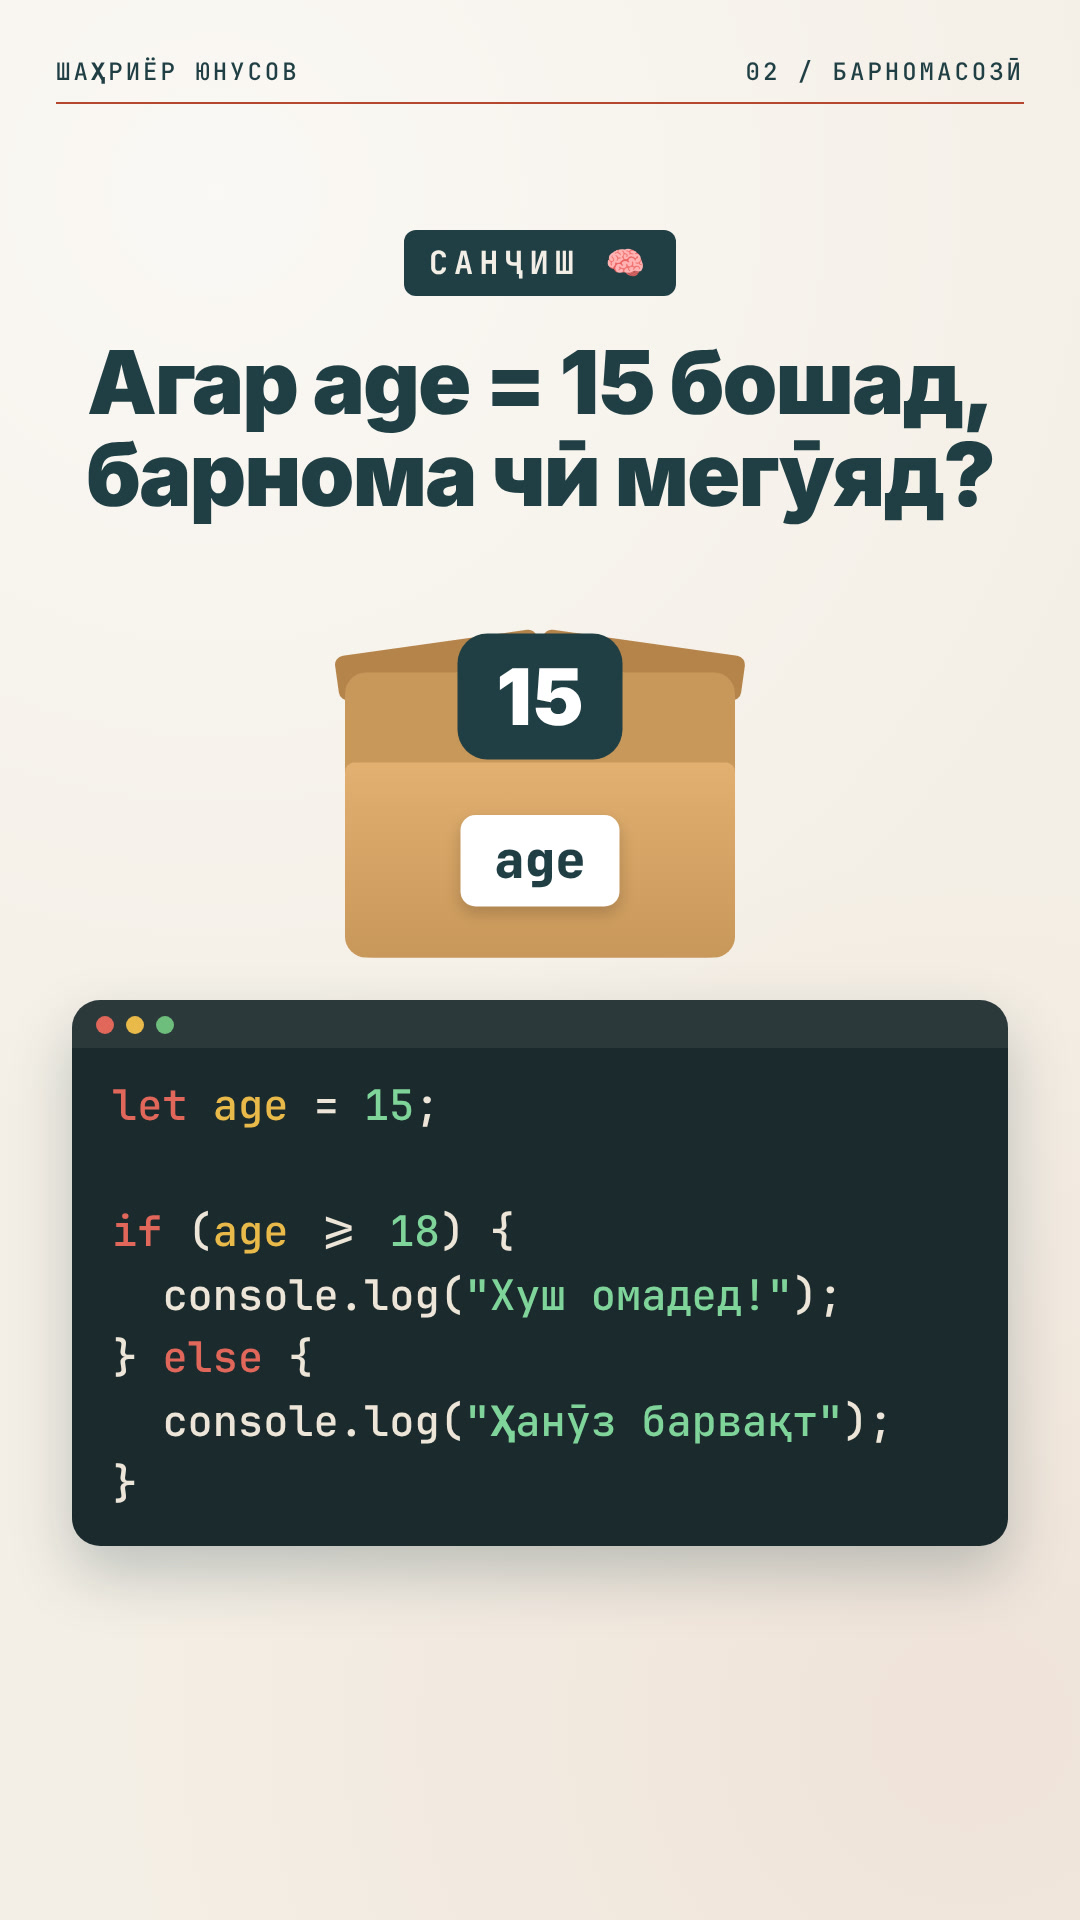
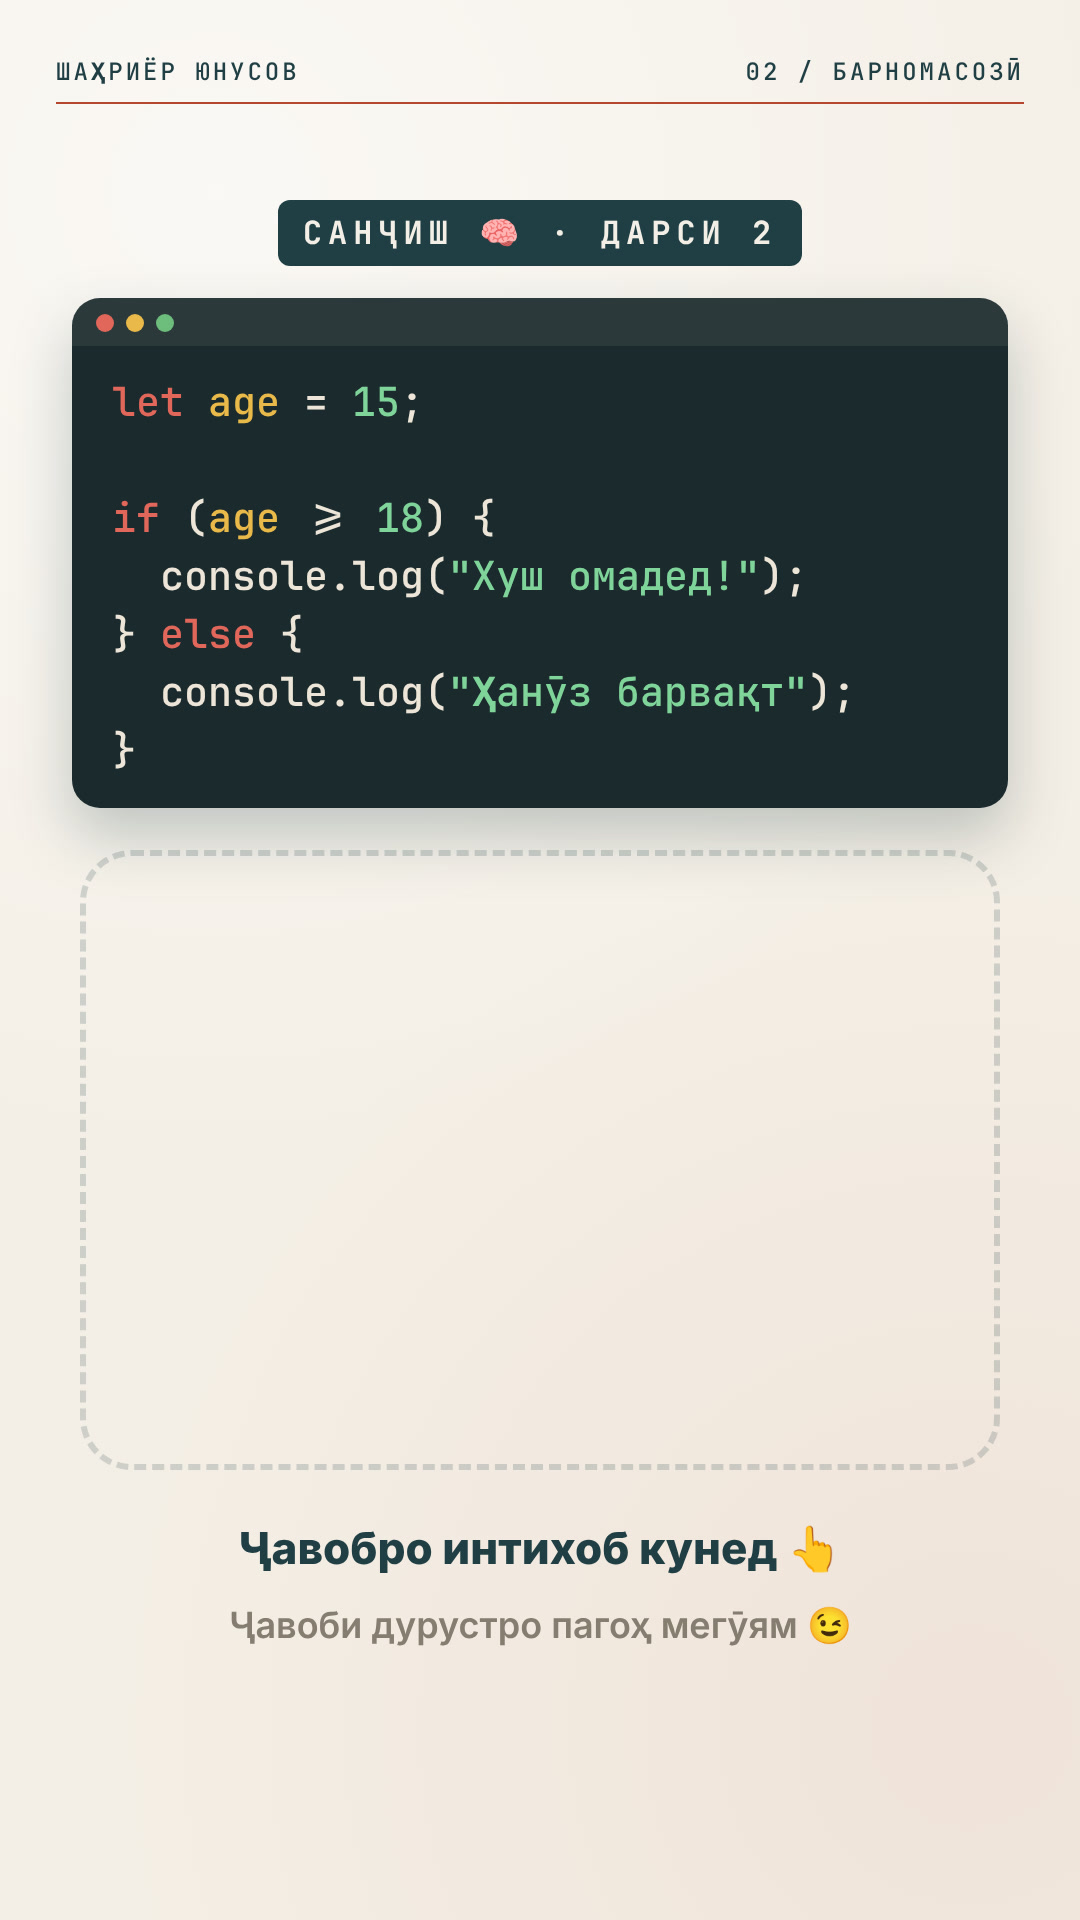
Rework if/else quiz story background with room for the quiz sticker
Claude-Session: https://claude.ai/code/session_01SWhLqzjyxb3RGLi5WYd75E

diff --git a/video-drafts/reel-if-else/promo/story-quiz.html b/video-drafts/reel-if-else/promo/story-quiz.html
@@ -1,12 +1,10 @@
 <!doctype html><html lang="tg"><head><meta charset="utf-8"><link rel="stylesheet" href="base.css"><style>body{width:540px;height:960px}
-.box { position:relative; width:260px; height:270px; margin:0 auto; scale:.75; margin-top:-30px; margin-bottom:-40px; }
+.zone { position:absolute; left:40px; right:40px; top:425px; height:310px; border:3px dashed rgba(31,63,68,.18); border-radius:26px; }
 </style></head><body>
 <div class="hdr"><span>ШАҲРИЁР ЮНУСОВ</span><span>02 / БАРНОМАСОЗӢ</span></div>
-<div style="position:absolute;inset:115px 36px 120px;display:flex;flex-direction:column;align-items:center;gap:20px;text-align:center">
-  <span class="chip" style="font-size:16px">САНҶИШ 🧠</span>
-  <h1 style="font-size:44px">Агар age = 15 бошад,<br>барнома чӣ мегӯяд?</h1>
-  <div class="box"><div class="flap l"></div><div class="flap r"></div><div class="back"></div><div class="num">15</div><div class="front"><div class="tag">age</div></div></div>
-  <div class="term" style="width:100%;text-align:left"><div class="bar"><i></i><i></i><i></i></div><pre style="font-size:21px"><span class="kw">let</span> <span class="nm">age</span> = <span class="v">15</span>;
+<div style="position:absolute;left:36px;right:36px;top:100px;display:flex;flex-direction:column;align-items:center;gap:16px">
+  <span class="chip" style="font-size:16px">САНҶИШ 🧠 · ДАРСИ 2</span>
+  <div class="term" style="width:100%"><div class="bar"><i></i><i></i><i></i></div><pre style="font-size:20px;line-height:1.45"><span class="kw">let</span> <span class="nm">age</span> = <span class="v">15</span>;
 
 <span class="kw">if</span> (<span class="nm">age</span> &gt;= <span class="v">18</span>) {
   console.log(<span class="v">"Хуш омадед!"</span>);
@@ -14,4 +12,7 @@
   console.log(<span class="v">"Ҳанӯз барвақт"</span>);
 }</pre></div>
 </div>
+<div class="zone"></div>
+<p style="position:absolute;left:0;right:0;top:760px;text-align:center;font-size:22px;font-weight:800">Ҷавобро интихоб кунед <span class="emo">👆</span></p>
+<p style="position:absolute;left:0;right:0;top:800px;text-align:center;font-size:18px;color:#857D70">Ҷавоби дурустро пагоҳ мегӯям <span class="emo">😉</span></p>
 </body></html>
